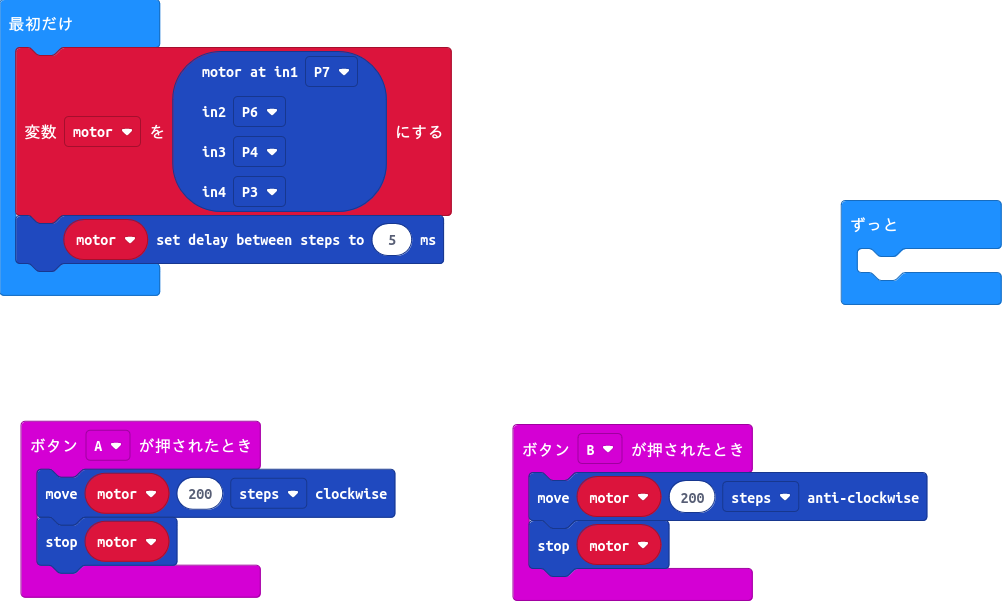
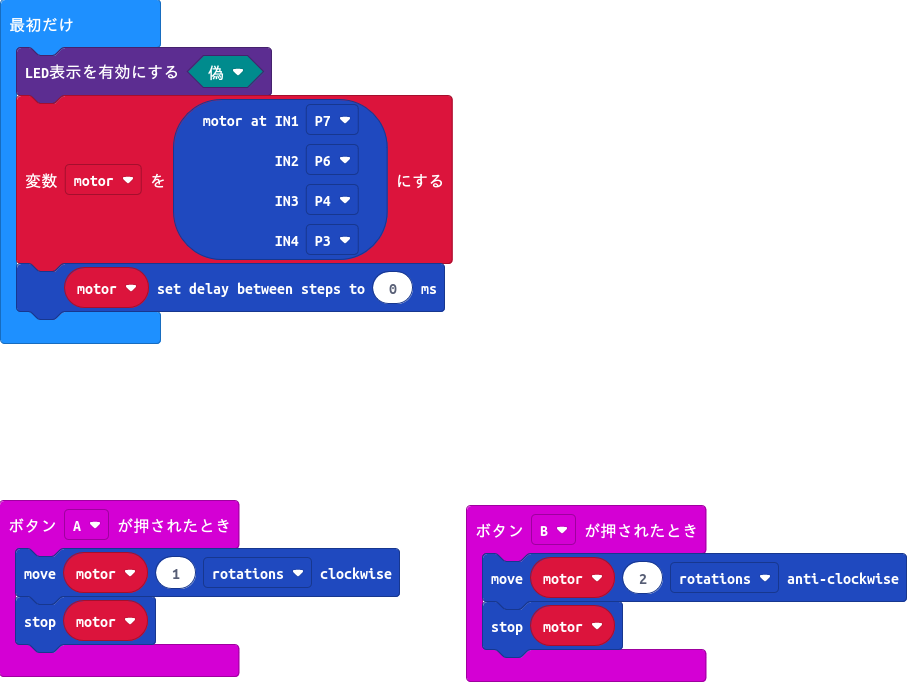
アライメント調整

diff --git a/main.ts b/main.ts
@@ -1,19 +1,17 @@
 input.onButtonPressed(Button.A, function () {
-    motor.moveClockwise(200, stepUnit.Steps)
+    motor.moveClockwise(1, stepUnit.Rotations)
     motor.stopMotor()
 })
 input.onButtonPressed(Button.B, function () {
-    motor.moveAntiClockwise(200, stepUnit.Steps)
+    motor.moveAntiClockwise(2, stepUnit.Rotations)
     motor.stopMotor()
 })
 let motor: stepperMotor.Motor = null
+led.enable(false)
 motor = stepperMotor.createMotor(
 DigitalPin.P7,
 DigitalPin.P6,
 DigitalPin.P4,
 DigitalPin.P3
 )
-motor.setDelay(5)
-basic.forever(function () {
-	
-})
+motor.setDelay(0)

diff --git a/stepperMotor.ts b/stepperMotor.ts
@@ -123,7 +123,7 @@ namespace stepperMotor {
      * Create a new stepper motor with connected pins at @param.
      * @param 4 pins where the motor is connected.
      */
-    //% blockId="stepperMotor_setMotor" block="motor at in1 %in1|in2 %in2|in3 %in3|in4 %in4"
+    //% blockId="stepperMotor_setMotor" block="motor at IN1 %in1|          IN2 %in2|          IN3 %in3|          IN4 %in4"
     //% weight=90 blockGap=8
     //% parts="motor"
     //% blockSetVariable=motor
